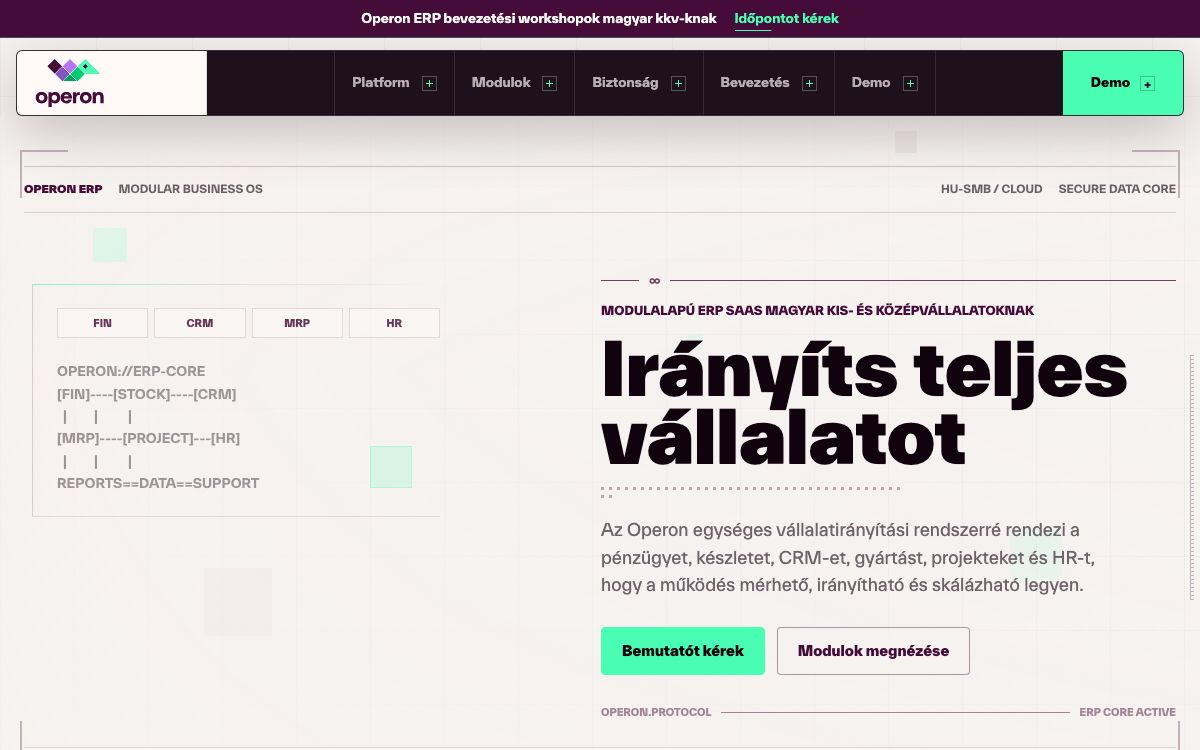
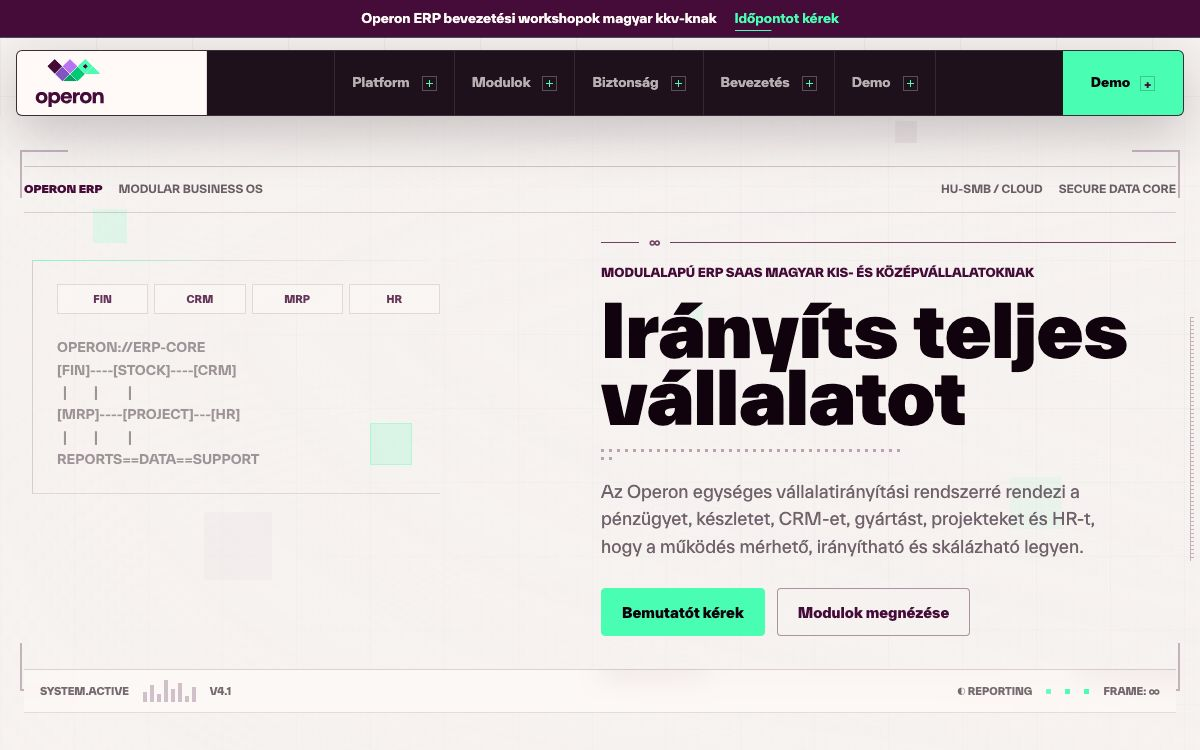
Shift hero content upward

diff --git a/app/globals.css b/app/globals.css
@@ -623,12 +623,12 @@ main {
   position: relative;
   z-index: 2;
   display: flex;
-  align-items: center;
+  align-items: flex-start;
   justify-content: flex-end;
   width: min(1240px, calc(100% - 48px));
-  min-height: 620px;
+  min-height: 540px;
   margin: 0 auto;
-  padding: 42px 0 94px;
+  padding: 22px 0 74px;
 }
 
 .operon-ascii-copy {
@@ -2079,9 +2079,10 @@ main {
   }
 
   .operon-ascii-content {
-    min-height: 640px;
+    min-height: 560px;
     justify-content: center;
-    padding-bottom: 104px;
+    padding-top: 28px;
+    padding-bottom: 84px;
   }
 
   .operon-ascii-copy {
@@ -2237,7 +2238,7 @@ main {
   .operon-ascii-content {
     width: min(100% - 28px, 520px);
     min-height: auto;
-    padding: 58px 0 92px;
+    padding: 34px 0 78px;
   }
 
   .operon-ascii-copy {
